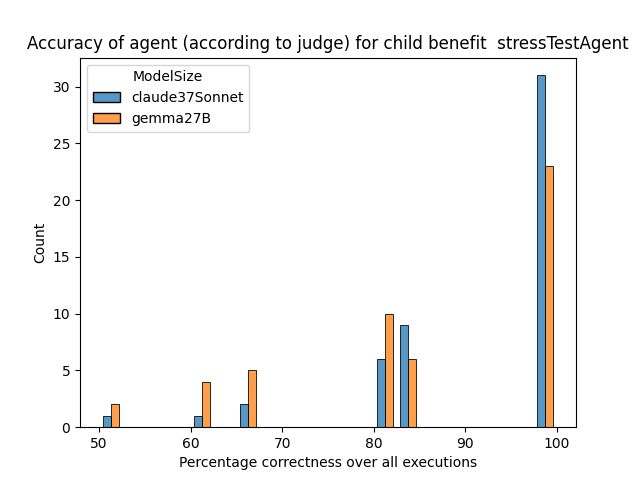
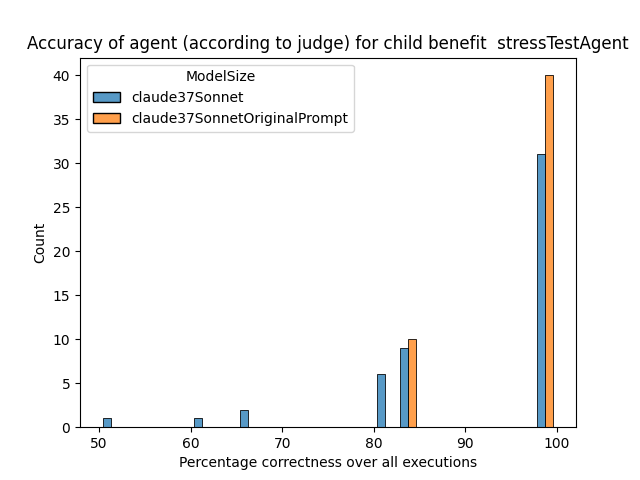
Analyse comparison between new claude 3.7 runs with original prompt as baseline, filter results against gemma27B out

diff --git a/src/adk/test_analysis.py b/src/adk/test_analysis.py
@@ -30,7 +30,8 @@ def invert_mapping(dictionary: dict) -> dict:
 model_sizes_hypothesis_mapping = {
     "child_benefit": {"baseline": "gemma4B", "improved": "gemma27B"},
     "skilled_worker_visa": {"baseline": "gemma4B", "improved": "gemma27B"},
-    "child_benefit__stressTestAgent": {"baseline": "gemma27B", "improved": "claude37Sonnet"},
+    #"child_benefit__stressTestAgent": {"baseline": "gemma27B", "improved": "claude37Sonnet"},
+    "child_benefit__stressTestAgent": {"baseline": "claude37Sonnet", "improved": "claude37SonnetOriginalPrompt"},
 }
 
 model_size_commit_mapping = {
@@ -44,7 +45,8 @@ model_size_commit_mapping = {
     }),
     "child_benefit__stressTestAgent": invert_mapping({
         "gemma27B": ["1012a61", "976499a", "74e8834"], 
-        "claude37Sonnet": ["e680f99"]
+        "claude37Sonnet": ["e680f99"],
+        "claude37SonnetOriginalPrompt": ["21506e4"]
     }),
     #defaultdict(lambda: "large"),
 }
@@ -353,6 +355,12 @@ def analyse_cohort(output_dir: Path):
             eligibility_dfs[test_cohort], on="permutation"
         )
 
+    # Assume that we only want to include data from the baseline and improved commit sets, and any other results should be excluded
+    combined_dfs_raw[test_cohort] = combined_dfs_raw[test_cohort][
+        combined_dfs_raw[test_cohort]["ModelSize"].isin(
+            list(model_sizes_hypothesis_mapping[test_cohort].values())
+        )
+    ]
     combined_dfs[test_cohort] = combined_dfs_raw[test_cohort].set_index(
         ["ModelSize"], append=True
     )
